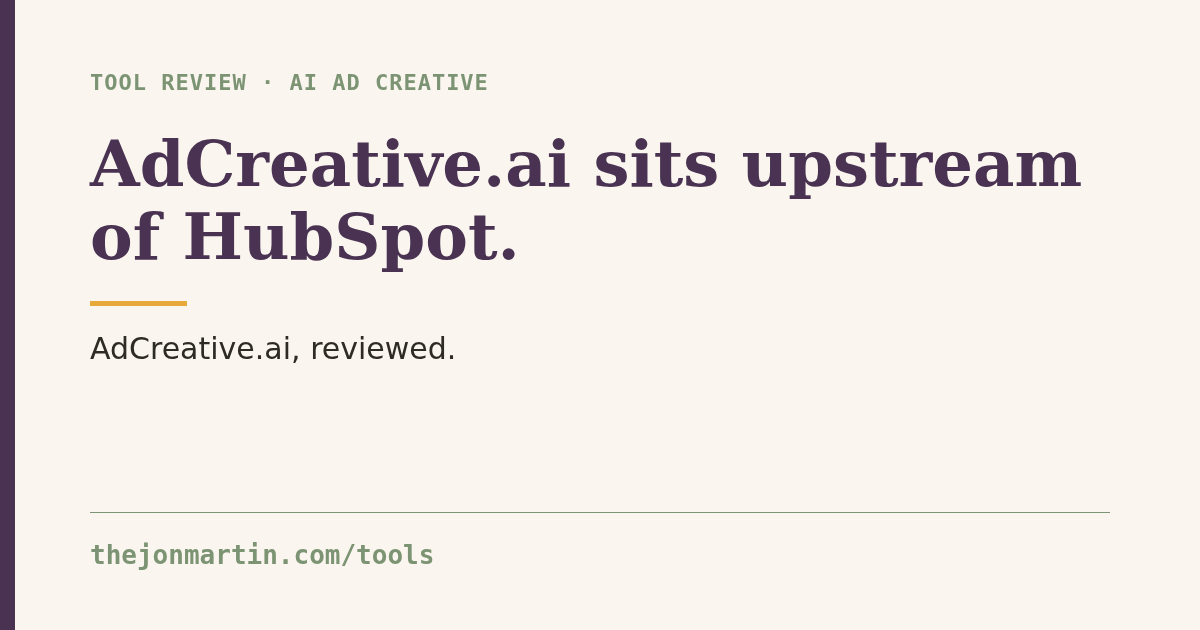
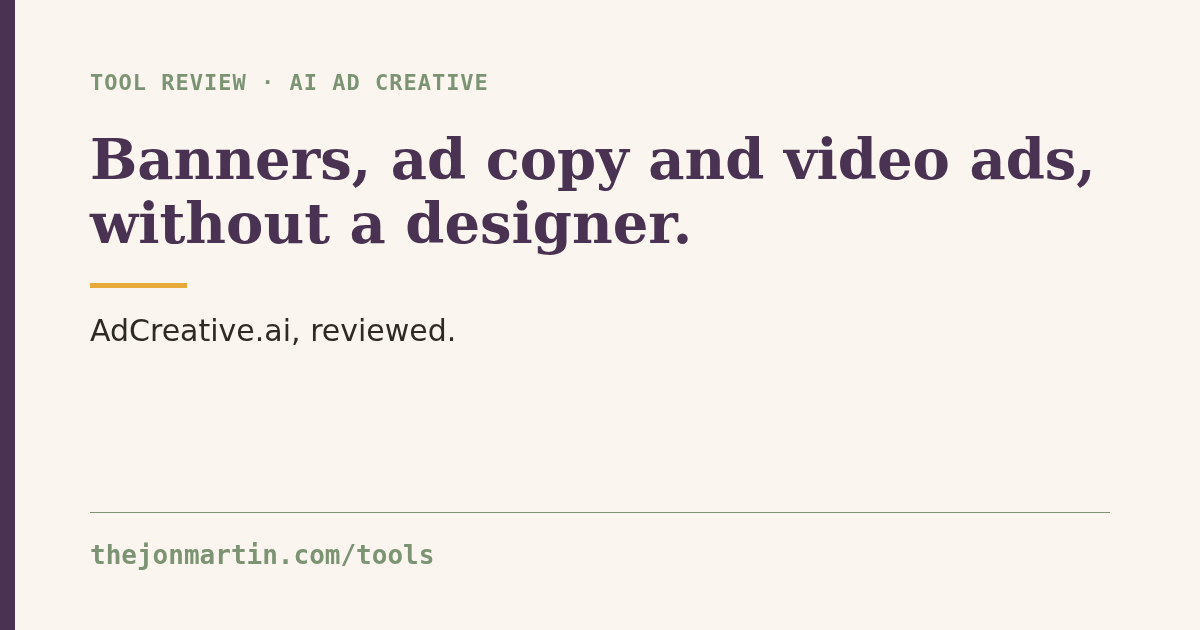
Draft: Reposition B: apply final W1–W15 copy (needs Jon's publish approval; do not merge) (#118)
* PR B step A: About (W5–W7), CrossSiteCTA (W8), Person schema (W13), /contact (W14b)

* PR B step B: /tools (W1–W2), llms.txt (W3–W4c, W9–W12 lines), tool pages W9–W12

* PR B step C: /og.png drops the revenue figure (scripts/site-og.py); re-render W9/W11 tool cards

* og.png: headline is now the About hero, "Most broken processes aren't tool problems." (Jon, Nov 21)

Changed region(s): [[0.0617, 0.2111, 0.925, 0.573]]

diff --git a/src/lib/tools.ts b/src/lib/tools.ts
@@ -479,13 +479,13 @@ export const tools: Tool[] = [
 		related: ['whatconverts', 'gamma'],
 		name: 'AdCreative.ai',
 		title: 'AdCreative.ai — Jon Martin',
-		seoTitle: 'AdCreative.ai and HubSpot: Where AI Ad Creative Fits',
+		seoTitle: 'AdCreative.ai Review: AI Ad Creative Without a Designer',
 		description:
-			"AdCreative.ai makes banners, ad copy, and short video ads. For HubSpot teams it sits upstream of the CRM. What it does, who it fits, and what to set up first.",
-		h1: 'AdCreative.ai sits upstream of HubSpot.',
+			"AdCreative.ai makes banners, ad copy, product photos and short video ads without a designer. Who it fits, what its claims are worth, and what to track first.",
+		h1: 'Banners, ad copy and video ads, without a designer.',
 		dek: [
 			'AdCreative.ai makes ads. Banners, ad copy, product photos, short video ads.',
-			"That's useful for a performance marketing team. For a RevOps or HubSpot admin audience, it's a weak fit. It sits upstream of HubSpot, in the ad platforms, not in your CRM.",
+			"That's useful for a performance marketing team. For a RevOps audience it's a weak fit. It works in the ad platforms, not in your CRM, and I couldn't confirm a HubSpot integration.",
 		],
 		category: 'AI ad creative',
 		facts: [
@@ -578,13 +578,13 @@ export const tools: Tool[] = [
 		related: ['aircall', 'elevenlabs'],
 		name: 'Unitel Voice',
 		title: 'Unitel Voice — Jon Martin',
-		seoTitle: 'Unitel Voice and HubSpot: A Phone Line, Not a RevOps Tool',
+		seoTitle: 'Unitel Voice Review: A Business Number on Your Cell',
 		description:
-			"Unitel Voice is a business phone service for solo founders and small teams. No HubSpot integration confirmed. Who it fits, who should look elsewhere, and why.",
+			"Unitel Voice puts a business number on the phone you already carry, with local, toll-free or vanity options. Who it fits, and who should look elsewhere.",
 		h1: 'A business number for your cell, not a RevOps tool.',
 		dek: [
 			'Unitel Voice is a good fit for a solo founder who needs a business number on their cell.',
-			"For a HubSpot-driven sales or service team, it's a weak fit. I couldn't confirm a HubSpot integration on Unitel's site, and for RevOps the integration is the whole point.",
+			"For a sales or service team that needs every call logged to the CRM, it's a weak fit. I couldn't confirm a HubSpot integration on Unitel's site, and for RevOps the integration is the whole point.",
 		],
 		category: 'Small-business phone',
 		facts: [
@@ -1075,12 +1075,12 @@ export const tools: Tool[] = [
 		related: ['quicksigner', 'whatconverts'],
 		name: 'Plesk',
 		title: 'Plesk — Jon Martin',
-		seoTitle: 'Plesk for Sites Not Hosted on HubSpot',
-		description: `Most SMB sites aren't hosted on HubSpot. Plesk is a control panel for running WordPress sites that still use HubSpot tracking and forms. Who it fits.`,
-		h1: `Most small business sites don't live on HubSpot. Someone still has to run them.`,
+		seoTitle: 'Plesk Review: One Control Panel for Many WordPress Sites',
+		description: `Plesk is a hosting control panel for running WordPress sites: updates, staging, cloning and backups from one dashboard. Who it fits, and who can skip it.`,
+		h1: `Your website still needs someone to run it.`,
 		dek: [
-			`A lot of HubSpot customers never put their website on HubSpot. The site runs on WordPress or another host, and HubSpot tracking and forms get added to it.`,
-			`Plesk is a hosting and server control panel for running those sites. It isn't a RevOps tool and it doesn't touch your CRM. This page is for the people who manage the site underneath it.`,
+			`Plesk is a hosting and server control panel. One dashboard for many sites, with WordPress updates, staging, cloning and backups built in.`,
+			`It isn't a RevOps tool and it doesn't touch your CRM. But a lot of HubSpot customers run their site on WordPress with HubSpot tracking and forms added, and someone has to keep that site working. This page is for them.`,
 		],
 		category: 'Hosting control panel',
 		facts: [
@@ -1173,12 +1173,12 @@ export const tools: Tool[] = [
 		related: ['trainual', 'plesk'],
 		name: 'QuickSigner',
 		title: 'QuickSigner — Jon Martin',
-		seoTitle: 'QuickSigner and HubSpot: E-Signature Through the API',
-		description: `QuickSigner is a simple, lower-cost e-signature tool. No native HubSpot integration found, so the connection is an API build. What it takes and who it suits.`,
+		seoTitle: 'QuickSigner Review: Lower-Cost E-Signature and Its API',
+		description: `QuickSigner is a simple, lower-cost e-signature tool with templates, signing order and an audit trail. Signers need no account. Who it suits, and the API catch.`,
 		h1: `E-signature is the last mile of the deal.`,
 		dek: [
 			`The contract gets signed, and then someone has to remember to move the deal to Closed Won.`,
-			`QuickSigner is a simple, lower-cost e-signature tool. The catch for HubSpot teams: I couldn't confirm a native HubSpot integration. You'd connect it through its API.`,
+			`QuickSigner is a simple, lower-cost e-signature tool, and signers don't need an account. I couldn't confirm a native HubSpot integration, so connecting it to your CRM means building on its API and webhooks.`,
 		],
 		category: 'E-signature',
 		facts: [

diff --git a/src/lib/schema.ts b/src/lib/schema.ts
@@ -175,7 +175,7 @@ const personSchema = {
 	email: 'mailto:jon@thejonmartin.com',
 	jobTitle: 'Revenue Operations Solutions Architect',
 	description:
-		'Writes diagnoses of why systems, processes, and org structures keep breaking in founder-led professional services firms.',
+		'Designs and diagnoses the processes behind revenue teams, and finds why systems and org structures keep breaking in founder-led professional services firms.',
 	knowsAbout: [
 		'Revenue Operations',
 		'Organizational Design',

diff --git a/scripts/site-og.py b/scripts/site-og.py
@@ -1,0 +1,41 @@
+"""Regenerate public/og.png (1200x630) — the sitewide default social card.
+
+Replaces the old untracked raster that had no source script. The content is
+hard-coded (it is the one sitewide card, not a per-page render). The revenue
+figure that used to sit in the subline was removed on purpose (Jon, Oct 28),
+and the headline is the About hero line (Jon, Nov 21).
+
+Matches the layout of scripts/tool-og.py: cream ground, plum left bar, sage
+label, plum serif headline, mustard rule, sage footer. Run from the repo root:
+  python3 scripts/site-og.py
+Requires: playwright (python) with Chromium.
+"""
+import html
+from playwright.sync_api import sync_playwright
+
+LABEL = 'FIELD REPORT & SECOND OPINION'
+HEADLINE = "Most broken processes aren't tool problems."
+SUBLINE = 'Written diagnosis for founders of professional services firms.'
+FOOTER = 'thejonmartin.com'
+
+PAGE = """<html><body style="margin:0;width:1200px;height:630px;background:#FAF6EF;position:relative;overflow:hidden">
+<div style="position:absolute;left:0;top:0;bottom:0;width:15px;background:#4A3352"></div>
+<div style="position:absolute;left:90px;right:90px;top:70px;font:700 22px 'DejaVu Sans Mono',monospace;color:#7C9473;letter-spacing:1px;text-transform:uppercase">{label}</div>
+<div style="position:absolute;left:90px;right:90px;top:128px;font:700 64px/1.14 'DejaVu Serif',serif;color:#4A3352">{headline}</div>
+<div style="position:absolute;left:90px;width:97px;height:5px;background:#E8A93B;top:{ruley}px"></div>
+<div style="position:absolute;left:90px;right:90px;top:{suby}px;font:400 30px 'DejaVu Sans',sans-serif;color:#2E2A26">{subline}</div>
+<div style="position:absolute;left:90px;right:90px;top:512px;border-top:1px solid #7C9473"></div>
+<div style="position:absolute;left:90px;top:540px;font:700 26px 'DejaVu Sans Mono',monospace;color:#7C9473">{footer}</div>
+</body></html>"""
+
+with sync_playwright() as p:
+    b = p.chromium.launch()
+    pg = b.new_page(viewport={'width': 1200, 'height': 630})
+    args = dict(label=html.escape(LABEL), headline=html.escape(HEADLINE), subline=html.escape(SUBLINE), footer=html.escape(FOOTER))
+    pg.set_content(PAGE.format(ruley=0, suby=0, **args))
+    h = pg.evaluate("document.querySelectorAll('div')[2].getBoundingClientRect().bottom")
+    ruley = int(h) + 28
+    pg.set_content(PAGE.format(ruley=ruley, suby=ruley + 30, **args))
+    pg.screenshot(path='public/og.png')
+    print('og.png', 'rule at', ruley)
+    b.close()

diff --git a/scripts/tool-og.py b/scripts/tool-og.py
@@ -1,10 +1,11 @@
 """Regenerate public/og/tools/<slug>-v2.png (1200x630) from src/lib/tools.ts.
 
 Matches the layout of public/og.png: cream ground, plum left bar, sage label,
-plum serif headline, mustard rule. Run from the repo root:  python3 scripts/tool-og.py
+plum serif headline, mustard rule. Run from the repo root:  python3 scripts/tool-og.py [slug ...]
+With no args renders every tool; pass one or more slugs to render only those.
 Requires: playwright (python) with Chromium.
 """
-import html, re
+import html, re, sys
 from pathlib import Path
 from playwright.sync_api import sync_playwright
 
@@ -15,6 +16,10 @@ for b in blocks:
     slug = b.split("'", 1)[0]
     g = lambda k: re.search(rf"\n\t\t{k}: ([\'\"`])(.*?)(?<!\\)\1,\n", b).group(2).replace("\\'", "'")
     tools.append((slug, g('name'), g('category'), g('h1')))
+
+only = set(sys.argv[1:])
+if only:
+    tools = [t for t in tools if t[0] in only]
 
 PAGE = """<html><body style="margin:0;width:1200px;height:630px;background:#FAF6EF;position:relative;overflow:hidden">
 <div style="position:absolute;left:0;top:0;bottom:0;width:15px;background:#4A3352"></div>
